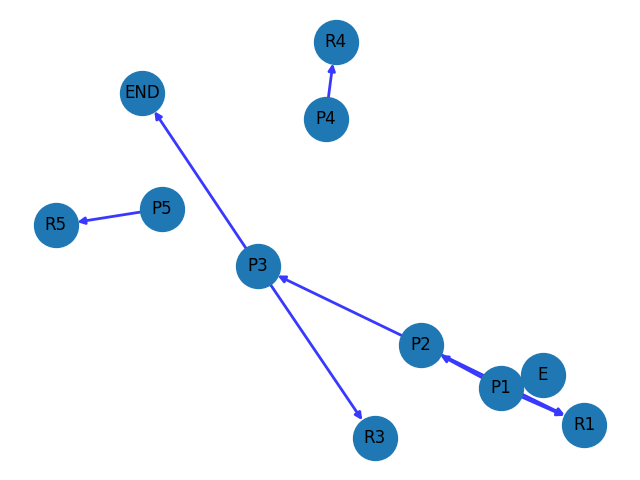
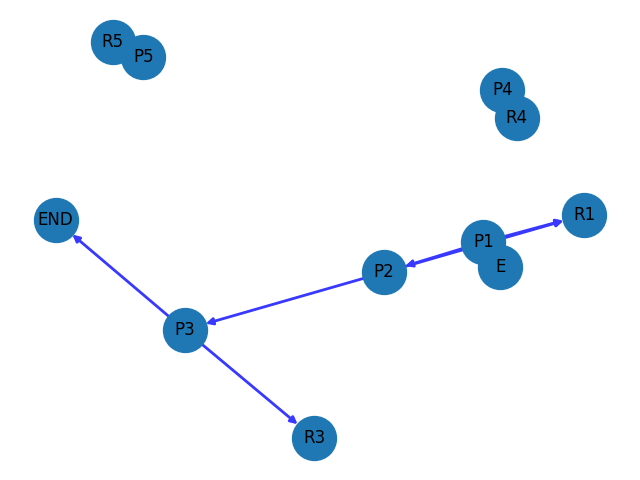
Alternative visitor

diff --git a/c/EnquestesVisitor.py b/c/EnquestesVisitor.py
@@ -12,7 +12,7 @@ class EnquestesVisitor(ParseTreeVisitor):
     def __init__(self):
         self.question_ids = []
         self.answer_ids = []
-        self.alternative_ids = []
+        self.alternative_pairs = {}
         self.item_pairs = {}
         self.poll_ids = []
         self.poll_item_list = []
@@ -52,6 +52,15 @@ class EnquestesVisitor(ParseTreeVisitor):
 
     # Visit a parse tree produced by EnquestesParser#alternative.
     def visitAlternative(self, ctx:EnquestesParser.AlternativeContext):
+        alt = ctx.alternativeAnswer()
+        self.alternative_pairs[str(ctx.identifier(0).ID())] = []
+        while alt is not None:
+            answer_id = str(alt.innerAlt().NUMBER())
+            item_id = str(alt.innerAlt().identifier().ID())
+            self.alternative_pairs[str(ctx.identifier(0).ID())].append((answer_id, item_id))
+            alt = alt.alternativeAnswer()
+
+        print(self.alternative_pairs)
         return self.visitChildren(ctx)
 
 

diff --git a/c/Compiler.py b/c/Compiler.py
@@ -48,9 +48,7 @@ class Compiler:
                 self.generator.add_edge(items[i - 1][0], items[i][0])
             self.generator.add_edge(items[-1][0], 'END')
 
-
         for pair in visitor.item_pairs.items():
-
             self.generator.add_edge(pair[1][0], pair[1][1])
 
         self.generator.add_node("END")
